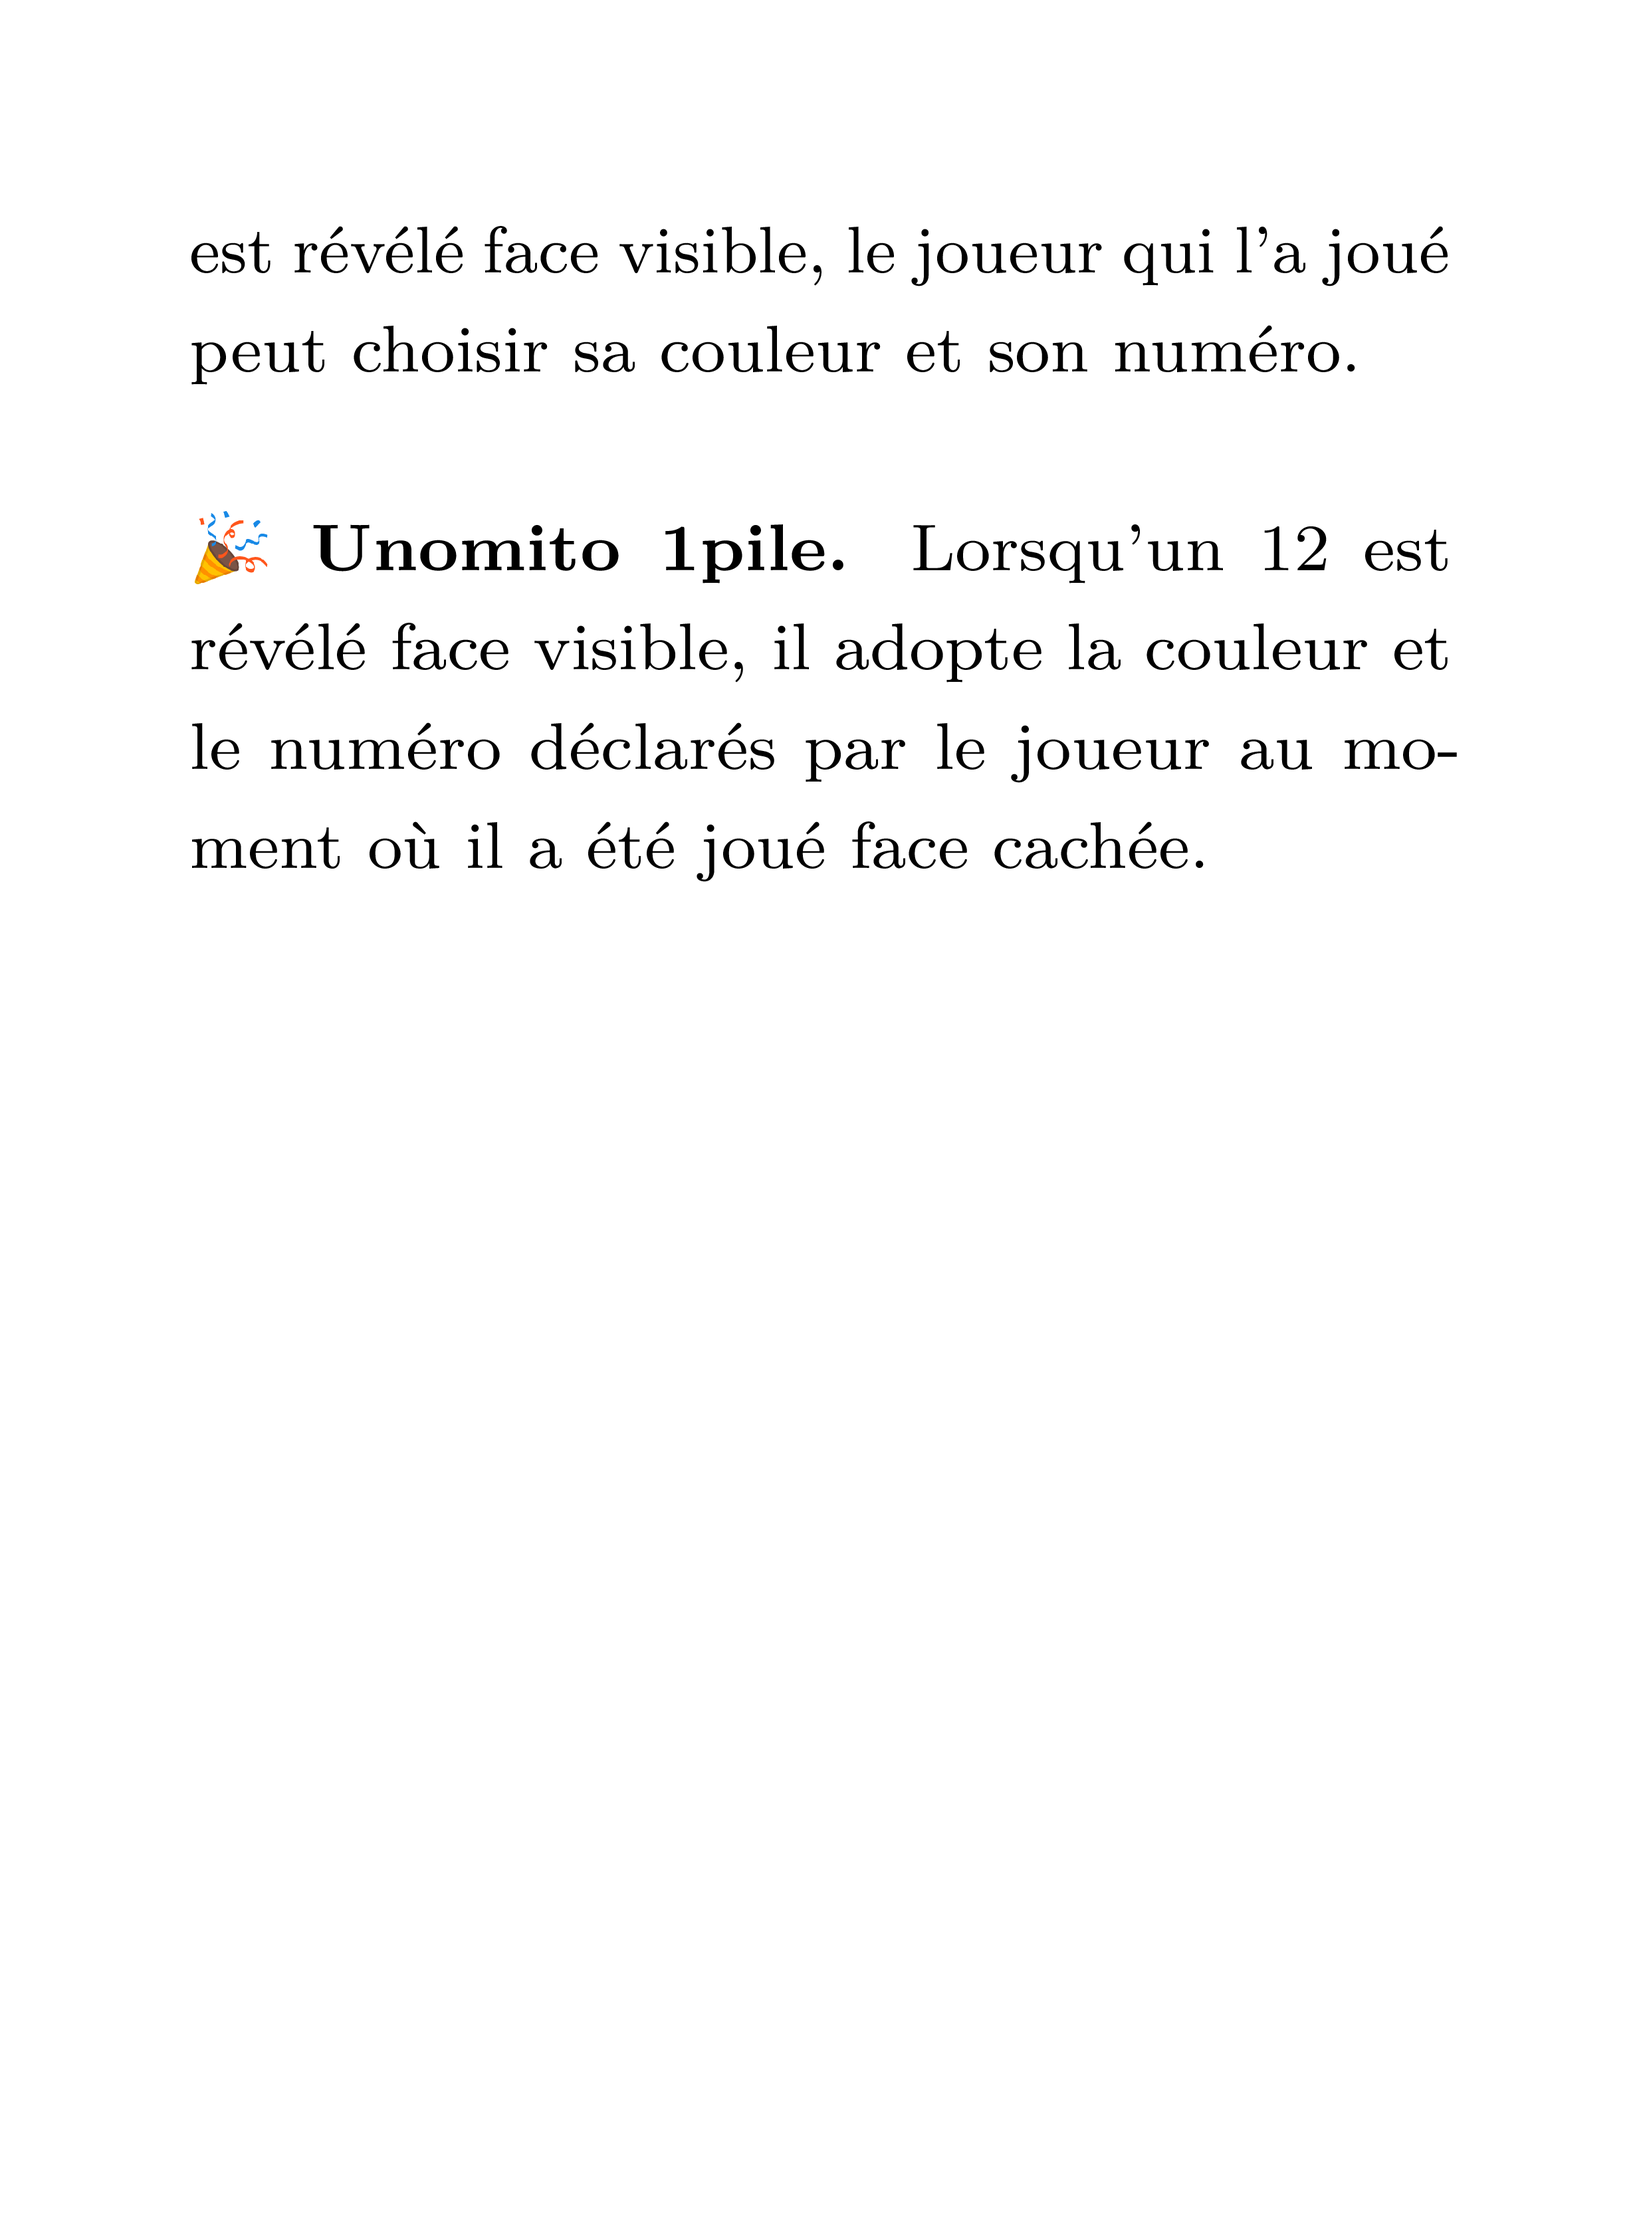
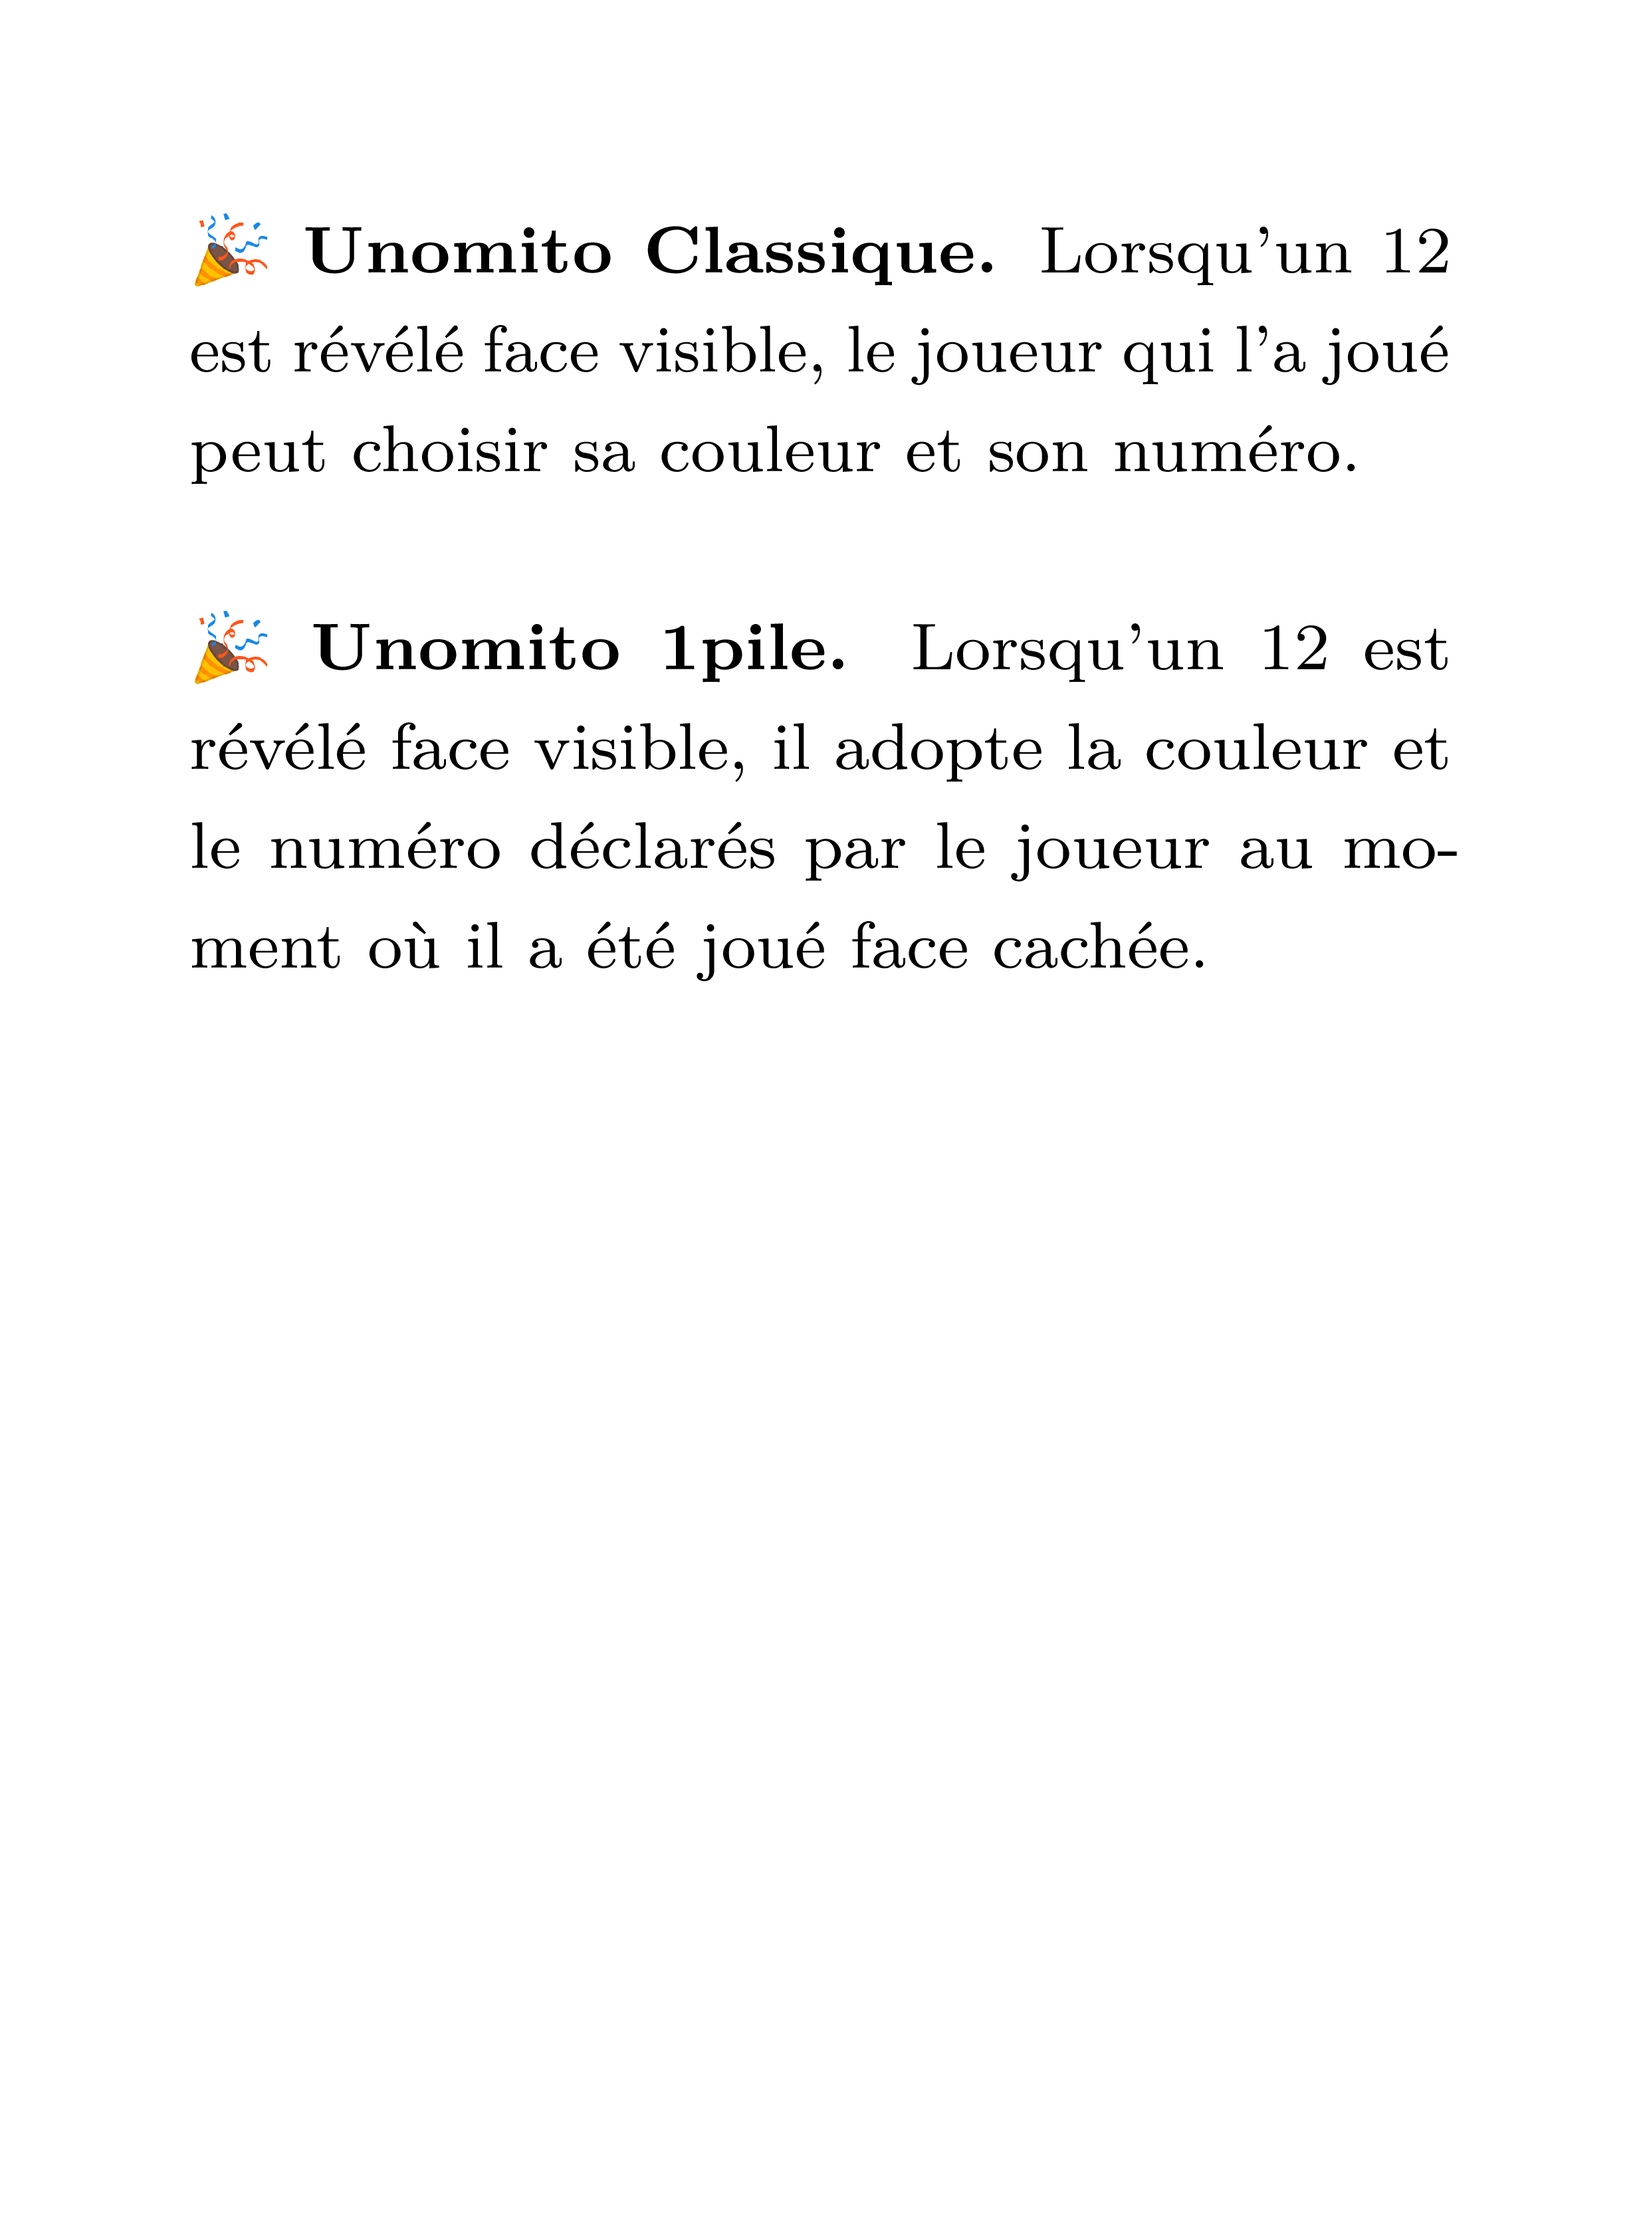
new rule

Changed region(s): [[0.1249, 0.0936, 0.8743, 0.3431], [0.1249, 0.3743, 0.8743, 0.4367]]

diff --git a/rules/Unomytho/Unomytho_joker/rule.tex b/rules/Unomytho/Unomytho_joker/rule.tex
@@ -25,8 +25,7 @@
 \\
 \noindent
 \textbf{\emoji{game-die} Le 12 est un joker.} Ces 6 cartes supplémentaires fonctionnent comme des jokers, vous permettant de les jouer sans risquer d'être accusé de mentir.
-\\
-\\
+\newpage
 \noindent
 \textbf{\emoji{party-popper} Unomito Classique.} Lorsqu'un 12 est révélé face visible, le joueur qui l'a joué peut choisir sa couleur et son numéro.
 \\
